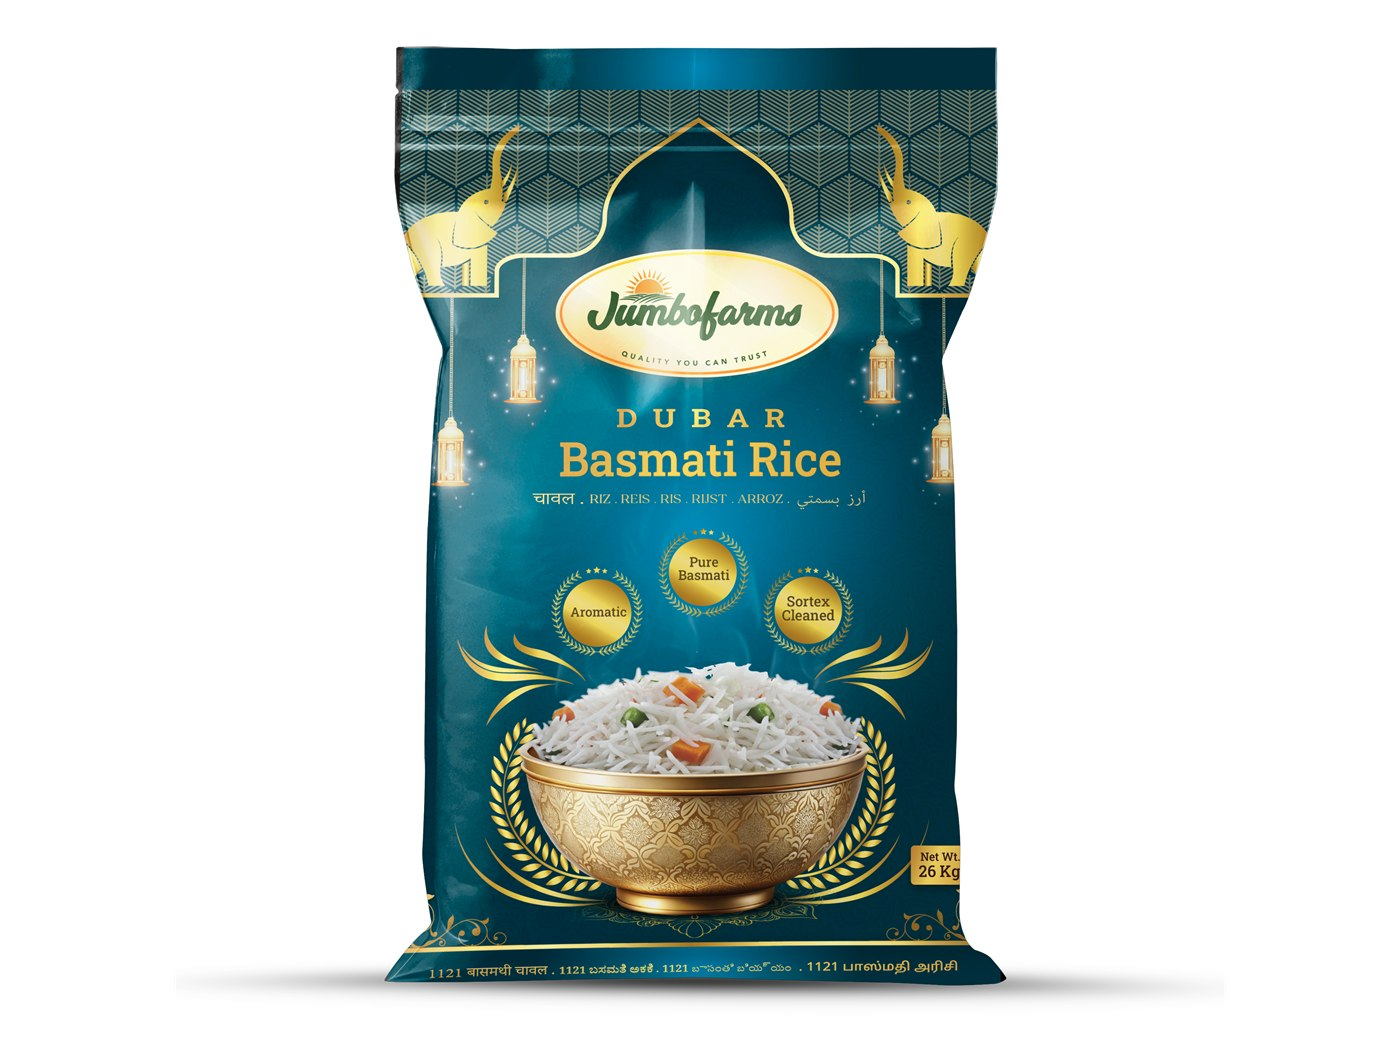
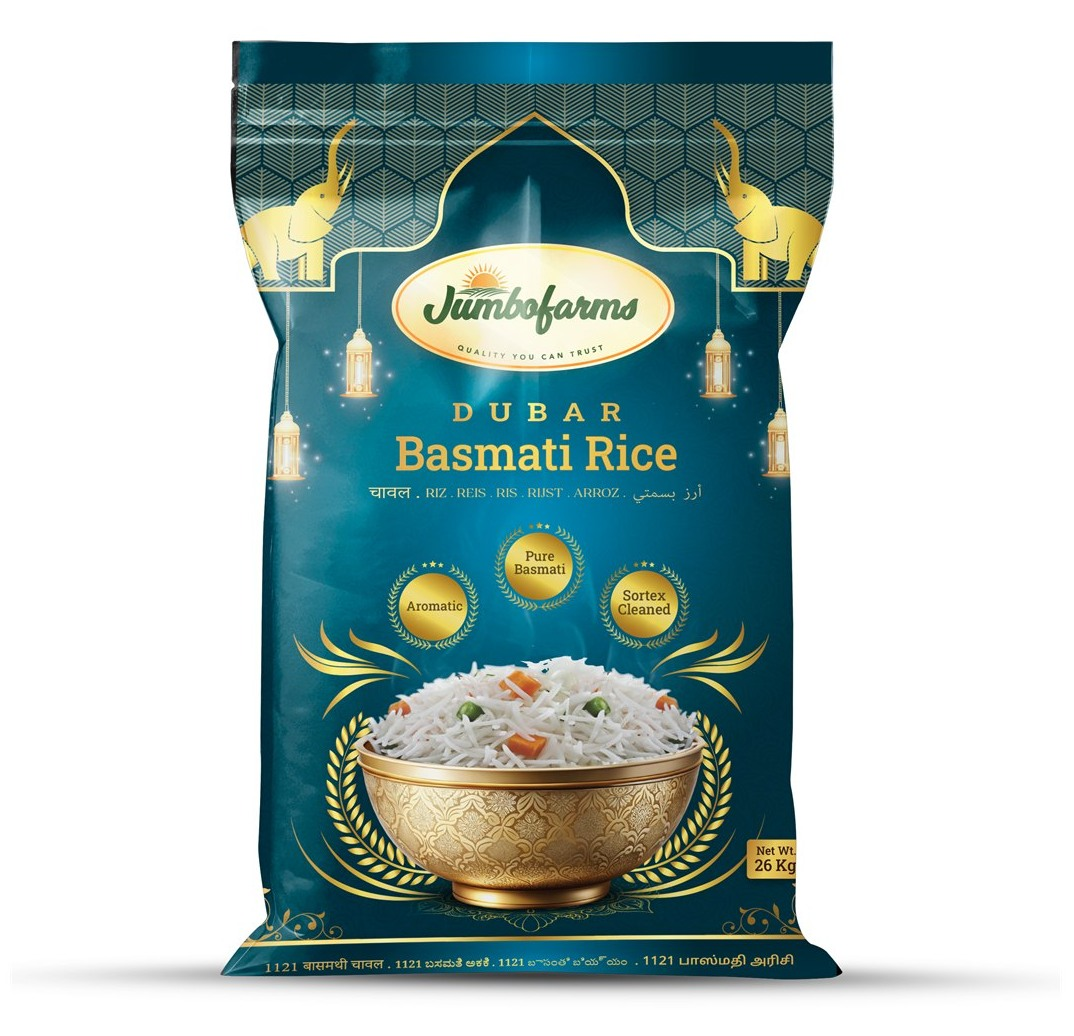
Bigger packshots, a smaller title, and one rule that runs the measure
The artwork was small for a reason no amount of CSS would fix: the files
are 1400x1050 landscape with 204px of white down each side, and the bag
inside them is nearly square. Dropped into a portrait tile, contain
letterboxed it to 40% of the tile. The ten shots this page uses are
cropped to their content with a 4% margin - 1400x1050 becomes 1074x1036,
aspect 1.33 to 1.04 - and the tiles now fill the measure four to a row at
278x400 instead of 250x330 centred with 56px of air at either side. The
bag goes from 245x184 to 270x260, 40% of the tile to 63%.

The title comes down from 124px to 86px. The rule I put under it is gone;
the one that was already below, over the meta row, takes the full measure
instead - it was stopping at 900px while everything around it ran to
1160.

Originals of the ten images are in the scratchpad as well as in this
repo's history, in case the crop is too tight anywhere.

Jumbofarms Rice only, still.

diff --git a/outputs/jumbofarms-rice.html b/outputs/jumbofarms-rice.html
@@ -670,6 +670,39 @@ html.motion .section .label.in{ transform:none; }
   html.motion .section .label{ transform:translateX(-14px); }
   html.motion .section .label.in{ transform:none; }
 }
+
+/* ---------- title, rule, and artwork at full measure ------------------
+   The title comes down in size - at 124px it was carrying the whole hero
+   on its own - and a hairline runs the full measure under it, which is
+   what holds the width now that the words no longer do.
+
+   The packshots fill that same measure: four to a row at a quarter of it
+   each, so the tiles reach both edges instead of leaving 56px of air at
+   either side. A last row that does not fill sits at the left, which is
+   where everything else on the page now starts. */
+.hero h1{ font-size:clamp(38px, 6.4vw, 86px); }
+/* No rule of its own under the title - but the one that was already
+   below, over the meta row, takes the full measure the way that one did.
+   It was stopping at 900px while everything around it ran to 1160. */
+.meta-row{ max-width:none; }
+
+.packgrid{
+  display:grid;
+  grid-template-columns:repeat(4, minmax(0, 1fr));
+  justify-content:stretch;
+  gap:16px;
+}
+.packgrid > .page{
+  flex:none;
+  height:clamp(280px, 29vw, 400px);
+}
+@media (max-width:1000px){
+  .packgrid{ grid-template-columns:repeat(3, minmax(0, 1fr)); }
+}
+@media (max-width:700px){
+  .packgrid{ grid-template-columns:repeat(2, minmax(0, 1fr)); }
+  .packgrid > .page{ flex:none; height:clamp(220px, 46vw, 300px); }
+}
 </style><script>
 /* Motion is opt-in per browser: it needs an observer, and it stays off
    for anyone who has asked their system for less movement. Setting the
